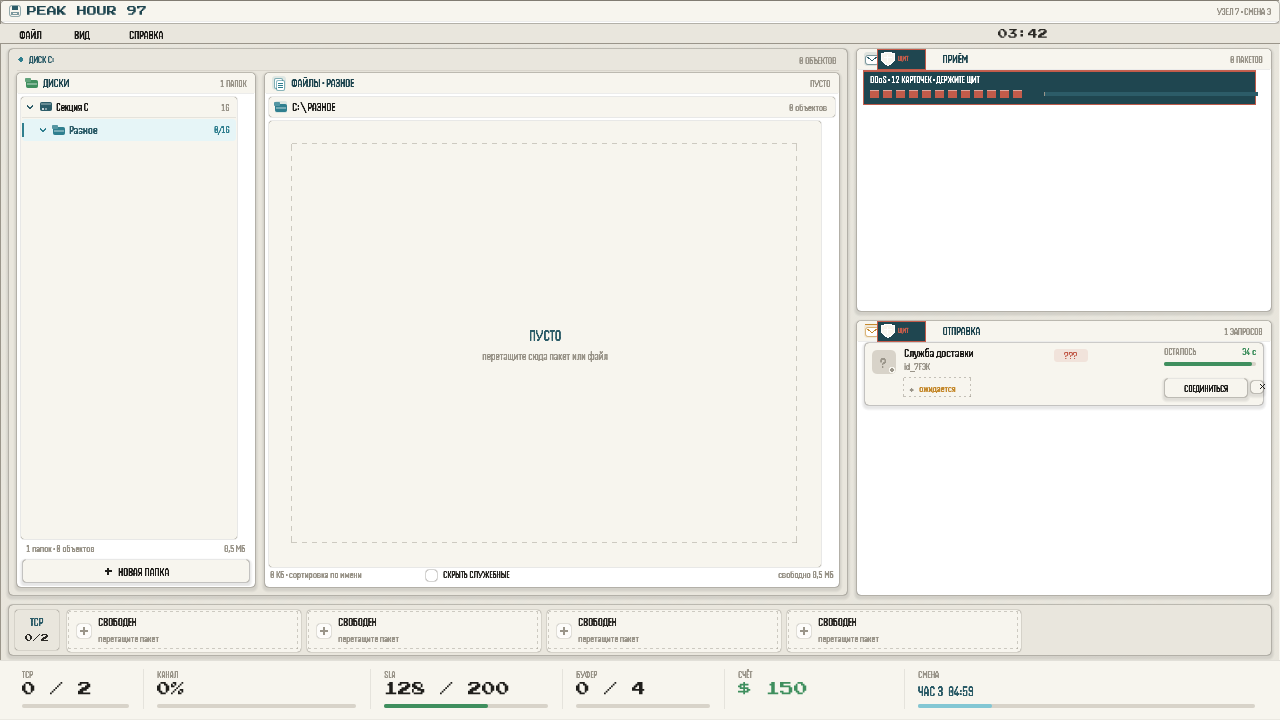
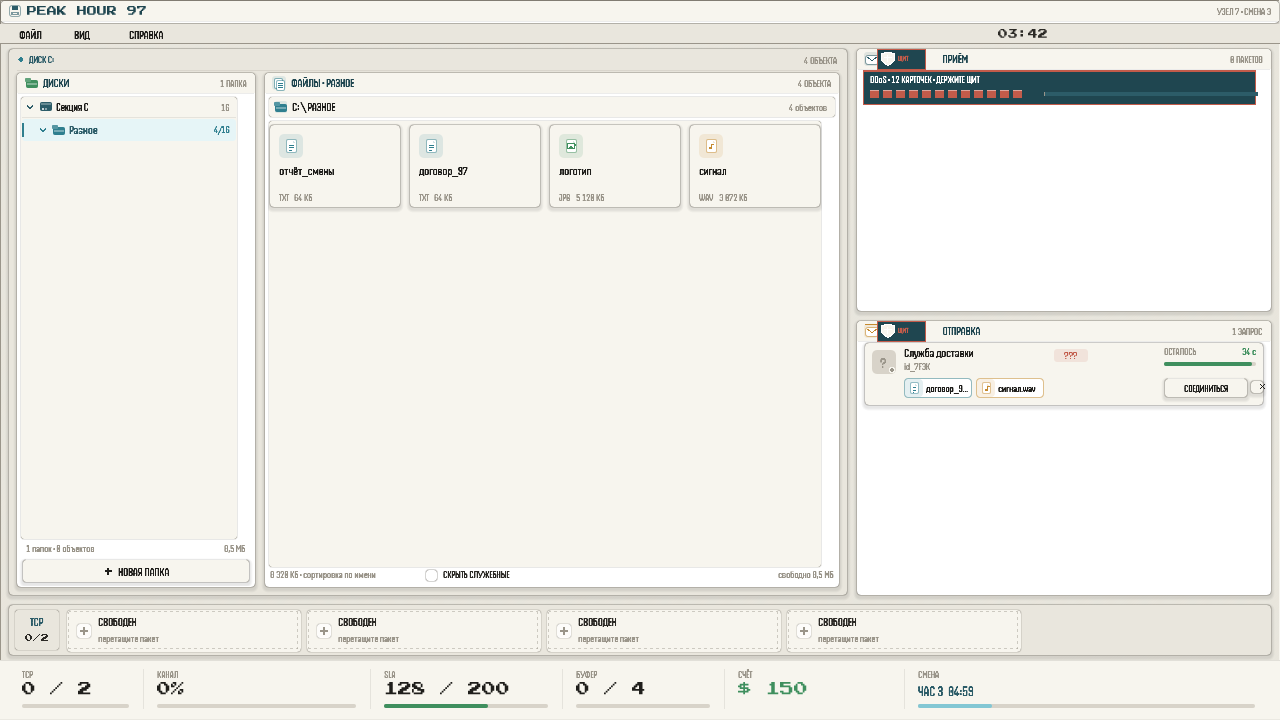
docs: v1.2 audit results, progressive unlocks and final screenshots

diff --git a/AI_REPORT.md b/AI_REPORT.md
@@ -13,18 +13,20 @@ test-writer, explorer, feis-regulator, oracle):
 | **MiMo-V2.6-Flash** | аудио: синтез SFX и фона |
 | дефолтные модели субагентов | поиск, тесты, ревью |
 
-MR-ревью выполняет агент **oracle** на
-`opencode-go/deepseek-v4.1-flash`: dry-run 74–90 с, комментарий в MR
-(Blockers/High/Medium/Test gaps/Verdict), без мержа.
+MR-ревью — агент **oracle** (`opencode-go/deepseek-v4.1-flash`): dry-run
+74–90 с, комментарий в MR, без мержа.
 
 ## 2. Где применялся ИИ
 
 - **Код Godot/GDScript:** `GameController`, `HourDirector`, `AttackDirector`,
   `FileRegistry`, `SlotManager`, `Shop`, `SaveManager`, мини-игры.
-- **UI v2 «Kaleidos»:** тёплая бумага, 1 px контуры, тени, бирюзовый акцент,
-  меньше визуального шума; маскот **БАЙТ** и туториал.
+- **UI v2 «Kaleidos»:** тёплая бумага, 1 px контуры, тени, бирюзовый акцент;
+  маскот **БАЙТ** и туториал.
 - **Баланс и мета:** SLA 128/200, штрафы по типам, 10 апгрейдов, grace
-  таймеров, канал, открытия `survive_hour_3/5` и `complete_run`.
+  таймеров, канал, прогрессивные открытия после 3/5/9 часов.
+- **Аудит-фиксы:** спокойный фон — плоская бумага, Esc на итогах → меню,
+  реальное уничтожение папки (−5 SLA), прогрессивная мета `run_meta_awards`,
+  час 1 без атак.
 - **Тесты:** unit, fuzz, интеграция, полный забег, UI-смоук.
 - **Документация:** `docs/`, `README.md`, `ASSETS.md`, `strings_ru.json`.
 - **Звук:** `audio/generate_sfx.py` — 18 SFX и `hum.wav` на Python.
@@ -49,7 +51,7 @@ coeff = {text: 1.0, sound: 2.0, photo: 3.0, video: 4.0}
 Идея, логлайн, исходная спецификация, ключевые решения (1997 год, 9 часов,
 4 атаки, экономика, тон 90-х) и финальная приёмка — человеком, автором
 проекта. ИИ не придумывал игру: он помогал формулировать, писать код,
-считать баланс и искать противоречия. Ручной плейтест — за человеком.
+считать баланс и искать противоречия.
 
 ## 5. Ассеты и лицензии
 
@@ -64,22 +66,21 @@ coeff = {text: 1.0, sound: 2.0, photo: 3.0, video: 4.0}
 
 ## 6. Проверки и ограничения
 
-Headless, Godot 4.7.2:
+Headless:
 
-- `run_tests.gd` — **505** (реестр, экономика, save, RNG); `test_hour` —
-  **131**; `test_shop` — **116**; `test_minigame` — **51**;
-  `test_slots` — **34**; `test_audio` — **37**.
+- `run_tests.gd` — **543**; `test_hour` — **133**; `test_shop` — **116**;
+  `test_minigame` — **51**; `test_slots` — **34**; `test_audio` — **37**.
 - `test_fuzz` — **3249**; `test_integration` — **231**; `test_attacks` —
-  **173**; `test_controller` — **139**.
-- `test_full_playthrough` — **294** на сидах `1/42/777`: 9/9 часов,
-  SLA 200 после магазина; `test_main_*` — **247**; `ui_smoke` — **132**.
-- Итого **5 339** проверок, **0 провалов**; `run_all_tests.sh` — **19/19
-  PASS** (18 наборов + parse-check).
+  **173**; `test_controller` — **143**.
+- `test_full_playthrough` — **294** на сидах `1/42/777`: 3/3 victory,
+  9/9 часов, SLA 200;
+  `test_main_*` — **317**; `ui_smoke` — **132**.
+- Итого **5 453** проверки, **0 провалов**; `run_all_tests.sh` — **19/19
+  PASS**.
 - `godot --headless --path . --quit` — exit 0; Web-экспорт — exit 0;
   браузерный смоук Chromium: 1600×900, меню → «Новый забег» → подготовка,
   JS-ошибок нет.
 
 Ограничения: туториал — маскот и подсказки, без пошагового сценария;
 web-save зависит от IndexedDB; ручной плейтест, громкость и масштаб — за
-человеком; remote push ещё не выполнен. «Всё проверено вручную» не
-утверждаем.
+человеком; remote push ещё не выполнен.

diff --git a/README.md b/README.md
@@ -25,15 +25,20 @@
   и скрыт во время часа.
 - TCP-слоты и полоска соединения: три попадания; промах закрывает панель
   без автоповтора.
-- 4 атаки с расписанием открытий: junk/ddos — час 2, phishing — 3,
-  ransomware — 4.
+- 4 атаки, но **час 1 проходит без атак**; junk/ddos — с часа 2,
+  phishing — с 3, ransomware — с 4.
 - **SLA 128 / 200** на старте; потеря пакета: text 2 / sound 4 / photo 8 /
   video 16.
-- Мета-открытия между забегами: поиск — `survive_hour_3`, щит —
-  `survive_hour_5`, продвинутые мини-игры — `complete_run`.
+- Мета-награды **постепенно по часам**: поиск после 3-го часа, щит после
+  5-го, `complete_run` после 9-го; итоги показывают «ОТКРЫТО: …», прогресс
+  живёт между забегами. `minigame_advanced` — резерв под будущий контент.
 - Поиск по имени в текущей папке после открытия; заголовок «N ИЗ M ОБЪЕКТОВ».
 - Автообновление папки/дерева, уникальные имена папок (`Имя`, `Имя 2`),
   удаление пустых папок, attached-галочки, скролл приёма до 8 пакетов.
+- «Уничтожить содержимое» папки удаляет файлы с подтверждением и −5 SLA;
+  пустая папка удаляется без штрафа.
+- «Спокойный фон» — плоская бумага без dither; Esc на итогах забега ведёт
+  в главное меню.
 - UI v2 «Kaleidos», маскот **БАЙТ** и короткий туториал первого часа.
 - Handjet + Press Start 2P, 18 SFX + фоновый `hum`.
 
@@ -110,7 +115,7 @@ bash scripts/run_all_tests.sh
 "$GODOT" --headless --path . --script scripts/ui/ui_smoke.gd
 ```
 
-Фактический итог: **5 339 проверок, 0 провалов**; `run_all_tests.sh` —
+Фактический итог: **5 453 проверки, 0 провалов**; `run_all_tests.sh` —
 **19/19 PASS** (18 наборов + parse-check). Подробности — в
 [AI_REPORT](AI_REPORT.md).
 

diff --git a/docs/ITCH_PAGE.md b/docs/ITCH_PAGE.md
@@ -24,12 +24,12 @@
 
 Смена длится девять игровых часов по пять минут. На старте **SLA 128/200**,
 а каждый потерянный пакет бьёт по типу файла: текст 2, звук 4, фото 8,
-видео 16. С каждым часом пакеты идут чаще, а канал забивается сильнее.
-В узел лезут мусор, DDoS, фишинг и шифровальщик — их нужно вовремя заметить
-и уничтожить. Магазин открывается после первого часа: **10 улучшений** от
-слотов и буфера до зоны, канала, щита и запаса SLA. Поиск и щит открываются
-мета-прогрессом между забегами. Дожить до конца смены — победа; уронить
-SLA — поражение.
+видео 16. Первый час проходит без атак; дальше в узел лезут мусор, DDoS,
+фишинг и шифровальщик — их нужно вовремя заметить и уничтожить. Магазин
+открывается после первого часа: **10 улучшений** от слотов и буфера до зоны,
+канала, щита и запаса SLA. Поиск и щит открываются мета-прогрессом после
+3-го и 5-го часа, продвинутые мини-игры — после 9-го (контент пока
+в разработке). Дожить до конца смены — победа; уронить SLA — поражение.
 
 Интерфейс вдохновлён Kaleidos: тёплая бумага, тонкие 1 px контуры, мягкие
 тени и бирюзовый акцент. В первом часе рядом подсказывает маскот **БАЙТ**.
@@ -90,7 +90,7 @@ FEIS Game Jam, 2026. Команда — 4 человека. Godot 4.7.2, GDScrip
 
 ![Час пик](screenshots/hour.png)
 
-3. **Час пик.** «Час пик: пакеты в приёме и запросы с таймерами/протоколами/слотами».
+3. **Час пик.** «Час пик: 3 пакета в приёме и 2 запроса с таймерами/протоколами/слотами».
 
 ![Атаки](screenshots/attacks.png)
 

diff --git a/docs/UI_REFRESH.md b/docs/UI_REFRESH.md
@@ -58,6 +58,12 @@ error #C25B4A · success #3F8F5E · warn #C58A2E · shadow #00000018
   сценария.
 - **Настройки:** кнопка на главном экране открывает рабочую модалку.
 - **Магазин без X:** закрытие только «Закрыть» или `Esc`.
+- **Calm-фон:** при включённом «Спокойном фоне» Backdrop рисует плоскую
+  `PAPER` без dither; серый `#C0C0C0` не появляется.
+- **Итоги забега:** строка «ОТКРЫТО: …» показывает полученные мета-награды;
+  `Esc` ведёт в главное меню, без soft-lock.
+- **Drag пакета на слот:** перетаскивание пакета на TCP-слот запускает
+  настоящее соединение, а не только визуальный перенос.
 
 ## Проверки
 
